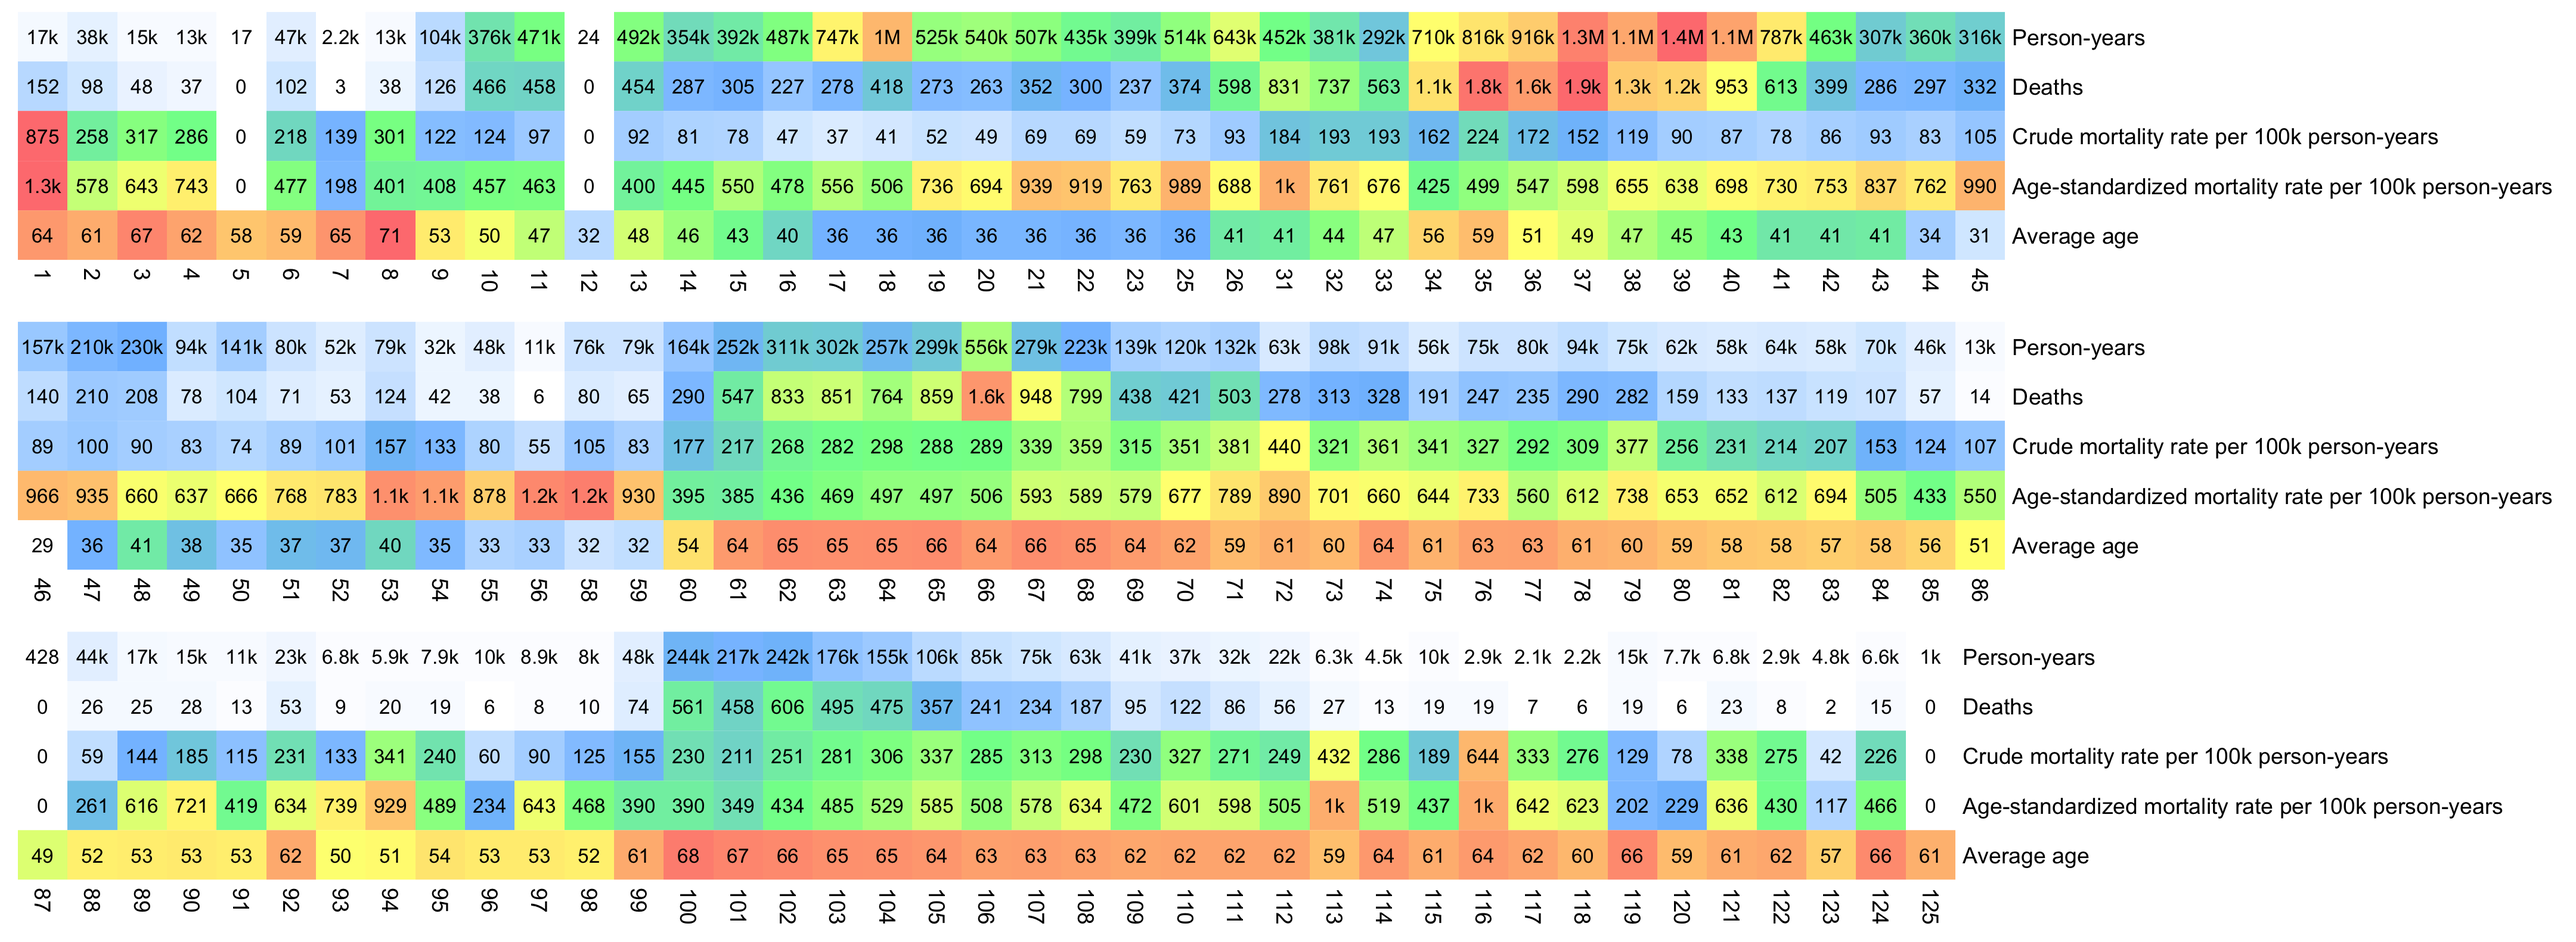
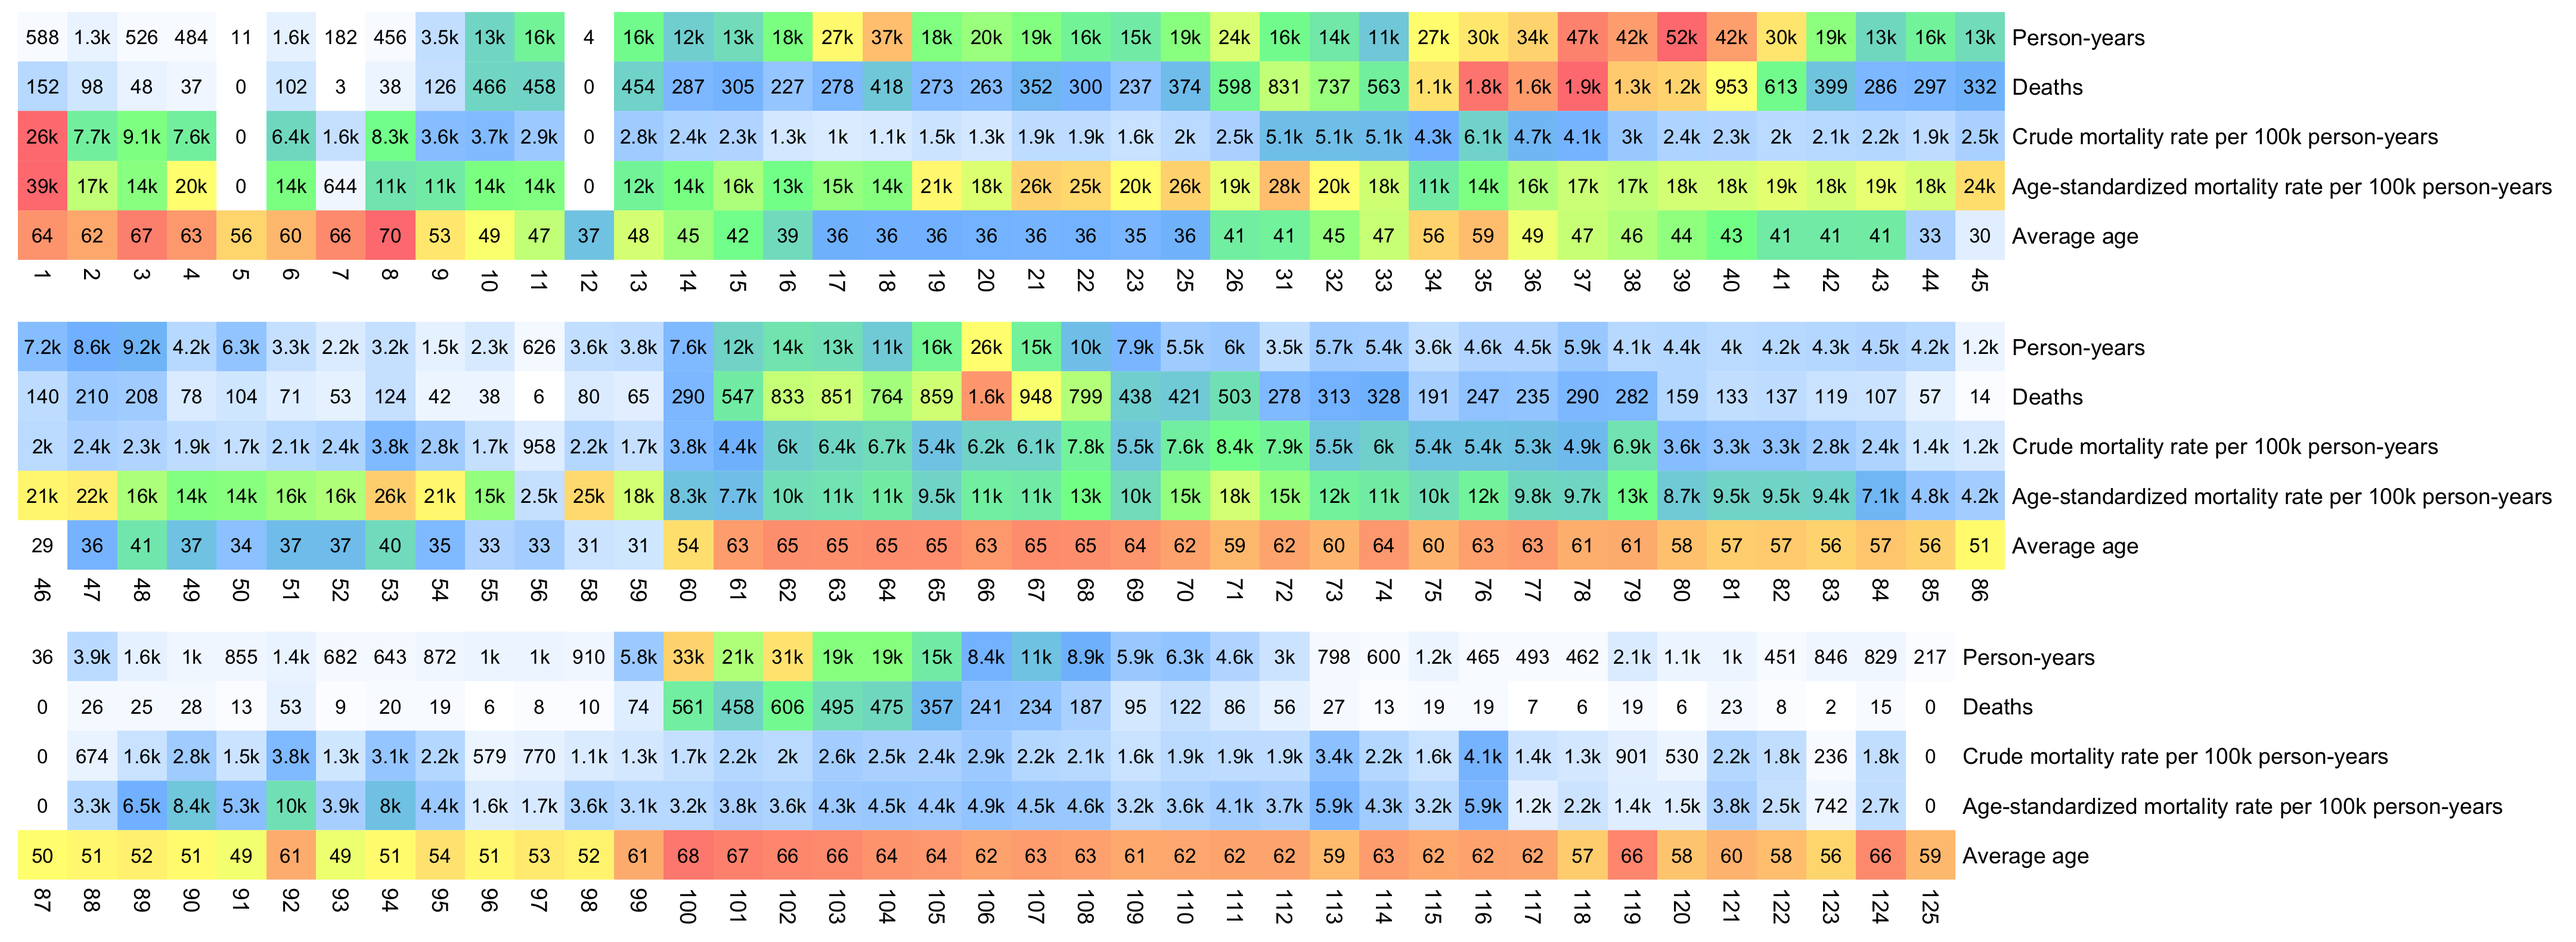
a

diff --git a/moar.html b/moar.html
@@ -60,7 +60,6 @@ th{background:#eee;text-align:left;font-weight:bold}
 </ul></li>
 <li><a href=#Plots_and_data_analysis>Plots and data analysis</a>
 <ul>
-<li><a href=#Excess_mortality_compared_to_new_vaccinations>Excess mortality compared to new vaccinations</a></li>
 <li><a href=#Time_from_vaccination_until_death>Time from vaccination until death</a></li>
 <li><a href=#Distribution_of_vaccine_doses_given_per_day>Distribution of vaccine doses given per day</a></li>
 <li><a href=#Reverse_engineering_the_age_column>Reverse engineering the age column</a></li>
@@ -71,6 +70,7 @@ th{background:#eee;text-align:left;font-weight:bold}
 <li><a href=#Miscellaneous>Miscellaneous</a>
 <ul>
 <li><a href=#Origins_of_Youngs_data_and_video>Origins of Young's data and video</a></li>
+<li><a href=#Excess_mortality_compared_to_new_vaccinations>Excess mortality compared to new vaccinations</a></li>
 <li><a href=#Tweet_by_Kirsch_about_excess_mortality_in_2021_2023>Tweet by Kirsch about excess mortality in 2021-2023</a></li>
 <li><a href=#Tweet_about_excess_deaths_by_Clare_Craig>Tweet about excess deaths by Clare Craig</a></li>
 <li><a href=#Research_by_other_people>Research by other people</a></li>
@@ -89,7 +89,7 @@ th{background:#eee;text-align:left;font-weight:bold}
 <img src="i/moar-linkedin.jpg">
 </div>
 <p>People were doubting if the whistleblower actually worked for the New Zealand health authorities, but an article about him said that <span class="quote">&quot;Te Whatu Ora Health New Zealand is investigating a staff member accused of spreading Covid-19 misinformation using its data.&quot;</span> [<a href="https://www.rnz.co.nz/news/national/503703/health-nz-staff-member-investigated-for-covid-19-misinformation">https://www.rnz.co.nz/news/national/503703/health-nz-staff-member-investigated-for-covid-19-misinformation</a>] <span class="quote">&quot;Te Whatu Ora&quot;</span> is the Māori name of Health New Zealand, and the Ministry of Health is called <span class="quote">&quot;Manatū Hauora&quot;</span>. Wikipedia says: <span class="quote">&quot;Te Whatu Ora is responsible for the planning and commissioning of health services as well as the functions of the 20 former district health boards. The Ministry of Health remains responsible for setting health policy, strategy and regulation.&quot;</span> [<a href="https://en.wikipedia.org/wiki/Te_Whatu_Ora">https://en.wikipedia.org/wiki/Te_Whatu_Ora</a>] Barry Young's LinkedIn profile says that he works for the Ministry of Health, so I don't know if it's possible that he simultaneously worked for Te Whatu Ora, but Te Whatu Ora was only launched in 2022 and it assumed some of the previous responsibilities of the Ministry of Health.</p>
-<p>Kirsch originally hosted Young's data on a cloud storage service called Wasabi, but after his Wasabi account got deleted, he posted the data on another cloud server: <a href="https://kirschsubstack.com/i/139257452/downloading-the-data-and-tools">https://kirschsubstack.com/i/139257452/downloading-the-data-and-tools</a>. There's other mirrors of the data here: <a href="https://getdatatransparency.com">https://getdatatransparency.com</a>, <a href="http://www.oretek.com/vsrf/">http://www.oretek.com/vsrf/</a>.</p>
+<p>Kirsch originally hosted Young's data on a cloud storage service called Wasabi, but after his Wasabi account got deleted, he posted the data on another S3 server: <a href="https://kirschsubstack.com/i/139257452/downloading-the-data-and-tools">https://kirschsubstack.com/i/139257452/downloading-the-data-and-tools</a>. There's other mirrors of the data here: <a href="https://getdatatransparency.com">https://getdatatransparency.com</a>, <a href="http://www.oretek.com/vsrf/">http://www.oretek.com/vsrf/</a>.</p>
 <p>In an interview with New Zealand Herald, the chief executive of Te Whatu Ora said that <span class="quote">&quot;an injunction had been used to have information taken down from an overseas website and cyber security specialists are continuing to scan extensively for any other places where the information may appear&quot;</span>, and that <span class="quote">&quot;We sought and were granted an injunction through the Employment Relations Authority that prevents any publication of the data to ensure that we can take all steps to protect the privacy of individuals.&quot;</span> [<a href="https://www.nzherald.co.nz/nz/te-whatu-ora-granted-urgent-injunction-police-complaint-filed-over-mass-privacy-breach-of-covid-19-vaccination-data-by-former-staff-member/EUKC3NHC6FAOVL2YJSE4GUR6BU/">https://www.nzherald.co.nz/nz/te-whatu-ora-granted-urgent-injunction-police-complaint-filed-over-mass-privacy-breach-of-covid-19-vaccination-data-by-former-staff-member/EUKC3NHC6FAOVL2YJSE4GUR6BU/</a>] Kevin McKernan's MEGA account got deleted because he mirrored Kirsch's data. [<a href="https://x.com/Kevin_McKernan/status/1731882709092270398">https://x.com/Kevin_McKernan/status/1731882709092270398</a>]</p>
 <h3>
 <a href=#The_data_is_obfuscated_and_only_contains_records_from_a_pay_per_dose_system id=The_data_is_obfuscated_and_only_contains_records_from_a_pay_per_dose_system>The data is obfuscated and only contains records from a pay-per-dose system</a>
@@ -107,7 +107,7 @@ th{background:#eee;text-align:left;font-weight:bold}
 <p>Some individuals may have had injections in both settings, which would account for records for some doses and not others.</p>
 </blockquote>
 <p>On the website of the New Zealand Ministry of Health, there is a PowerPoint presentation about the pay-per-dose system which says: <span class="quote">&quot;Price Per Dose (PPD) is a payment mechanism that automatically processes the vaccination records on a weekly basis in CIR. Through the Price Per Dose mechanism, Providers do not need to issue, send or wait for invoices to be processed in order to be paid.&quot;</span> [<a href="https://view.officeapps.live.com/op/view.aspx?src=https%3A%2F%2Fwww.pinnaclepractices.co.nz%2Fassets%2FPayments-Provider-Org-Admin-Presentation.pptx&wdOrigin=BROWSELINK">https://view.officeapps.live.com/op/view.aspx?src=https%3A%2F%2Fwww.pinnaclepractices.co.nz%2Fassets%2FPayments-Provider-Org-Admin-Presentation.pptx&amp;wdOrigin=BROWSELINK</a>]</p>
-<p>Kirsch's cloud server has a file called <code>About the New Zealand files.docx</code> which provides a bit more details:</p>
+<p>Kirsch's S3 server has a file called <code>About the New Zealand files.docx</code> which provides a bit more details:</p>
 <blockquote>
 <p>The record level .csv file has 4M rows. All the information is randomized so that the statistics are intact but all the fields of every record have been randomized so it will not match any fields of the original record. If there is a match to someone living, that is simply an unavoidable coincidence.</p>
 <p>4,193,438 total database records of people who were vaccinated (dead and alive).</p>
@@ -286,25 +286,6 @@ batch  doses   doses_leading_to_death  doses_leading_to_death_pct  persons  deat
 <h2>
 <a href=#Plots_and_data_analysis id=Plots_and_data_analysis>Plots and data analysis</a>
 </h2>
-<h3>
-<a href=#Excess_mortality_compared_to_new_vaccinations id=Excess_mortality_compared_to_new_vaccinations>Excess mortality compared to new vaccinations</a>
-</h3>
-<p>New Zealand had almost no COVID deaths until 2022 so there was also low excess mortality until 2022. And around August to September 2021 when the daily number of new vaccine doses peaked, there was negative excess mortality (at least if you look at seasonality-adjusted excess CMR like in my plot below): <a href=stat.html#Plot_multiple_min_max_scaled_variables_for_a_single_country>[R code</a>]</p>
-<div class="width6">
-<img src="i/moar-owid.png">
-</div>
-<p>In the presentation that Kirsch gave at MIT, he included the following slide which made it seem like there may have already been high excess mortality in 2021 since the year labeled 2021/2022 had high excess mortality, but couldn't tell from the slide that it took about a year after vaccination started until there was the first clear increase in excess mortality: [<a href="https://www.skirsch.com/covid/Isitsafe.pdf">https://www.skirsch.com/covid/Isitsafe.pdf</a>]</p>
-<div class="width6">
-<img src="i/moar-mit-1.jpg">
-</div>
-<p>Kirsch's presentation at MIT also included the following slides where he compared New Zealand to the Philippines:</p>
-<div class="width6">
-<img src="i/moar-mit-2.jpg">
-</div>
-<p>Kirsch pointed out that in 2020 Philippines had a fairly high number of COVID deaths but close to 0% excess mortality. But that's because there was negative excess mortality in the first half of 2020, and actually there was a clear increase in excess mortality from around April until August 2020 which paralleled an increase in COVID deaths. Kirsch also pointed out that the number of excess deaths in 2021 was about 7 times higher than the number of COVID deaths. But in developing countries it's common for COVID deaths to not be classified as COVID, and actually the spikes in excess deaths coincided with spikes in COVID deaths and PCR positivity rate, and there was even a dip in excess mortality around November 2022 when there was a peak in the daily number of new vaccine doses:</p>
-<div class="width6">
-<img src="i/moar-mit-3.png">
-</div>
 <h3>
 <a href=#Time_from_vaccination_until_death id=Time_from_vaccination_until_death>Time from vaccination until death</a>
 </h3>
@@ -727,7 +708,25 @@ mrn   batch_id   dose_number   date_time_of_service   date_of_death   vaccine_na
 <img src="i/moar-age-reverse-engineer.png">
 </div>
 <p>In an X Space where Kirsch was asked to describe the obfuscation procedure, he said: <span class="quote">&quot;The transformation is very unlikely to have shifted someone's data by over 30 days. It's very unlikely to have shifted someone's data by over 10 days.&quot;</span> [<a href="https://twitter.com/stkirsch/status/1733531453978489209">https://twitter.com/stkirsch/status/1733531453978489209</a>, time 19:31] So maybe the number of days is selected using a random variable with a normal distribution, so the maximum number of days can be even higher than 7 or 8. In fact when I repeated my procedure above but I checked all records instead of only the first 100,000 records, the peak date was on December 2nd 2023, and the maximum non-zero date was on December 11th 2024, so there may have been a single person who was born on November 30th or December 1st but whose birthday was shifted 11 or 10 days forwards (depending on whether the age column corresponds to the age on December 1st or 2nd).</p>
-<p>Later Kirsch tweeted: <span class="quote">&quot;I've updated the data-transparency/New Zealand/code directory with the obfuscation algorithm we used on the Health New Zealand data. It's 3 lines of code. [...] essentially all dates are shifted by a non-zero random number picked from a normal distribution centered on zero.&quot;</span> [<a href="https://twitter.com/stkirsch/status/1733655982843273357">https://twitter.com/stkirsch/status/1733655982843273357</a>]</p>
+<p>Later Kirsch added a file which explained the obfuscation algorithm to the S3 directory:</p>
+<pre>$ cat data-transparency/Code/time-series\ analysis/obfuscation_algorithm.txt
+&quot;For each person, a non-zero date offset was chosen from a gaussian distribution with sigma=7
+and all of the dates for that record were offset for that same amount,
+so the differences between dates are identical.&quot;
+
+date_delta = 0
+while date_delta == 0:
+    date_delta = int(random.normalvariate(0,1) * 7)
+
+This means that every record was altered. No record was left intact.
+
+Every date was time shifted by the same amount.
+
+Note:
+
+The &quot;Age&quot; field was inserted as a convenience item for use in Excel.
+
+Anyone doing serious work on the data should always use the date of birth to compute the exact age at the time of the record.</pre>
 <h3>
 <a href=#Statistics_relative_to_date_of_vaccination id=Statistics_relative_to_date_of_vaccination>Statistics relative to date of vaccination</a>
 </h3>
@@ -773,8 +772,8 @@ d$`Doses per person`=doses/persons
 
 m=t(apply(d,2,\(x)(x-min(x,na.rm=T))/(max(x,na.rm=T)-min(x,na.rm=T))))
 
-kimir2=\(x){x[]=ifelse(or(x&gt;=1e6,x&lt;=-1e6),paste0(round(x/1e6,ifelse(abs(x)&lt;1e7,1,0)),&quot;M&quot;),ifelse(or(x&gt;=1e3,x&lt;=-1e3),paste0(round(x/1e3,ifelse(abs(x)&lt;1e4,1,0)),&quot;k&quot;),round(x)));x}
-disp=kimir2(t(d))
+kimi=\(x){e=floor(log10(ifelse(x==0,1,abs(x))));e2=pmax(e,0)%/%3+1;x[]=ifelse(abs(x)&lt;1,x,paste0(round(x/1e3^(e2-1),ifelse(e%%3==0,1,0)),c(&quot;&quot;,&quot;k&quot;,&quot;M&quot;,&quot;B&quot;,&quot;T&quot;)[e2]));x}
+disp=kimi(t(d))
 disp[3,]=sprintf(&quot;%.1f&quot;,d[,3])
 disp[4,]=sprintf(&quot;%.1f&quot;,d[,4])
 disp[12,]=sprintf(&quot;%.1f&quot;,d[,12])
@@ -868,12 +867,12 @@ theme(
 )
 
 ggsave(&quot;1.png&quot;,width=5.5,height=4)</pre>
-<p>Out of the file that were pregenerated by <code>buckets.py</code>, the biggest file is <code>all_all_buckets_with_batch id.txt</code>, which contains the number of dead and alive people grouped by batch, month, week since vaccination, and single-year age:</p>
+<p>Out of the files generated by <code>buckets.py</code>, the biggest file is <code>all_all_buckets_with_batch id.txt</code>, which contains the number of dead and alive people grouped by batch, month, week since vaccination, and single-year age:</p>
 <pre>$ sed 3q data-transparency/New\ Zealand/time-series\ summaries/all_all_buckets_with_batch\ id.txt|column -t
 month    dose  batch  week  age  alive  dead
 2021-01  0     0      0     1    248    0
 2021-01  0     0      0     2    248    0</pre>
-<p>You can use the file to calculate the person-years of each batch so that once a person gets a new batch, they are no longer included under the person-years of their previous batch, and you can also calculate an ASMR for each batch:</p>
+<p>You can use the file to calculate the person-years of each batch so that once a person gets a new batch, they are no longer included under the person-years of the previous batch, and you can also calculate an ASMR for each batch:</p>
 <div class="width12">
 <img src="i/moar-heat-bucket.png">
 </div>
@@ -882,19 +881,23 @@ bat=bat[bat$batch!=0,]
 
 esp=c(5000,5500,5500,5500,6000,6000,6500,7000,7000,7000,7000,6500,6000,5500,5000,4000,2500,1500,800,200)
 
-ag=aggregate(bat[,6:7],bat[,c(3,5)],sum)
+ag=aggregate(bat$alive,bat[,c(1,3,5)],sum)
+ag=aggregate(ag$x,ag[,2:3],mean)
+ag=merge(ag,aggregate(bat$dead,bat[,c(3,5)],sum),by=1:2)
+colnames(ag)[3:4]=c(&quot;alive&quot;,&quot;dead&quot;)
+
 fa=factor(ag$batch,sort(unique(ag$batch)))
 mult=365.2422/7
 
 d=data.frame(`Person-years`=tapply(ag$alive,fa,sum)/mult,check.names=F)
 d$Deaths=tapply(ag$dead,fa,sum)
 d$`Crude mortality rate per 100k person-years`=tapply(ag$dead,fa,sum)/tapply(ag$alive,fa,sum)*mult*1e5
-d$`Age-standardized mortality rate per 100k person-years`=tapply(ifelse(ag$alive&lt;1e2,0,ag$dead/ag$alive)*esp[ag$age%/%5+1],fa,sum,na.rm=T)*mult
+d$`Age-standardized mortality rate per 100k person-years`=tapply(ifelse(ag$alive&lt;1e2,0,ag$dead/ag$alive*mult)*esp[pmin(ag$age,95)%/%5+1],fa,sum,na.rm=T)
 d$`Average age`=tapply(ag$age*ag$alive,fa,sum)/tapply(ag$alive,fa,sum)
 
 m=t(apply(d,2,\(x)(x-min(x,na.rm=T))/(max(x,na.rm=T)-min(x,na.rm=T))))
 
-kimir2=\(x){x[]=ifelse(or(x&gt;=1e6,x&lt;=-1e6),paste0(round(x/1e6,ifelse(abs(x)&lt;1e7,1,0)),&quot;M&quot;),ifelse(or(x&gt;=1e3,x&lt;=-1e3),paste0(round(x/1e3,ifelse(abs(x)&lt;1e4,1,0)),&quot;k&quot;),round(x)));x}
+kimi=\(x){e=floor(log10(ifelse(x==0,1,abs(x))));e2=pmax(e,0)%/%3+1;x[]=ifelse(abs(x)&lt;1,x,paste0(round(x/1e3^(e2-1),ifelse(e%%3==0,1,0)),c(&quot;&quot;,&quot;k&quot;,&quot;M&quot;,&quot;B&quot;,&quot;T&quot;)[e2]));x}
 disp=kimir2(t(d))
 
 slices=3
@@ -1031,6 +1034,25 @@ Covid Paediatric Pfizer,GE0694,2023-10-31,249600</pre>
 <p>Kirsch has said that he was next going to publish a similar set of <span class="quote">&quot;record-level data&quot;</span> from Israel and another set of record-level Medicare data from the United States. So at first I was wondering why he got access to similar record-level data from three different countries around the same time. But then I found that in February 2023, Kirsch wrote a Substack post where he requested people to release record-level vaccination data, and he even provided instructions on how to format and obfuscate the data, which matches the format and obfuscation method of the CSV file for Young's data: [<a href="https://kirschsubstack.com/p/a-worldwide-call-for-data-transparency">https://kirschsubstack.com/p/a-worldwide-call-for-data-transparency</a>]</p>
 <div class="width6">
 <img src="i/moar-kirsch-request.jpg">
+</div>
+<h3>
+<a href=#Excess_mortality_compared_to_new_vaccinations id=Excess_mortality_compared_to_new_vaccinations>Excess mortality compared to new vaccinations</a>
+</h3>
+<p>New Zealand had almost no COVID deaths until 2022 so there was also low excess mortality until 2022. And around August to September 2021 when the daily number of new vaccine doses peaked, there was negative excess mortality (at least if you look at seasonality-adjusted excess CMR like in my plot below): <a href=stat.html#Plot_multiple_min_max_scaled_variables_for_a_single_country>[R code</a>]</p>
+<div class="width6">
+<img src="i/moar-owid.png">
+</div>
+<p>In the presentation that Kirsch gave at MIT, he included the following slide which made it seem like there may have already been high excess mortality in 2021 since the year labeled 2021/2022 had high excess mortality, but couldn't tell from the slide that it took about a year after vaccination started until there was the first clear increase in excess mortality: [<a href="https://www.skirsch.com/covid/Isitsafe.pdf">https://www.skirsch.com/covid/Isitsafe.pdf</a>]</p>
+<div class="width6">
+<img src="i/moar-mit-1.jpg">
+</div>
+<p>Kirsch's presentation at MIT also included the following slides where he compared New Zealand to the Philippines:</p>
+<div class="width6">
+<img src="i/moar-mit-2.jpg">
+</div>
+<p>Kirsch pointed out that in 2020 Philippines had a fairly high number of COVID deaths but close to 0% excess mortality. But that's because there was negative excess mortality in the first half of 2020, and actually there was a clear increase in excess mortality from around April until August 2020 which paralleled an increase in COVID deaths. Kirsch also pointed out that the number of excess deaths in 2021 was about 7 times higher than the number of COVID deaths. But in developing countries it's common for COVID deaths to not be classified as COVID, and actually the spikes in excess deaths coincided with spikes in COVID deaths and PCR positivity rate, and there was even a dip in excess mortality around November 2022 when there was a peak in the daily number of new vaccine doses:</p>
+<div class="width6">
+<img src="i/moar-mit-3.png">
 </div>
 <h3>
 <a href=#Tweet_by_Kirsch_about_excess_mortality_in_2021_2023 id=Tweet_by_Kirsch_about_excess_mortality_in_2021_2023>Tweet by Kirsch about excess mortality in 2021-2023</a>
